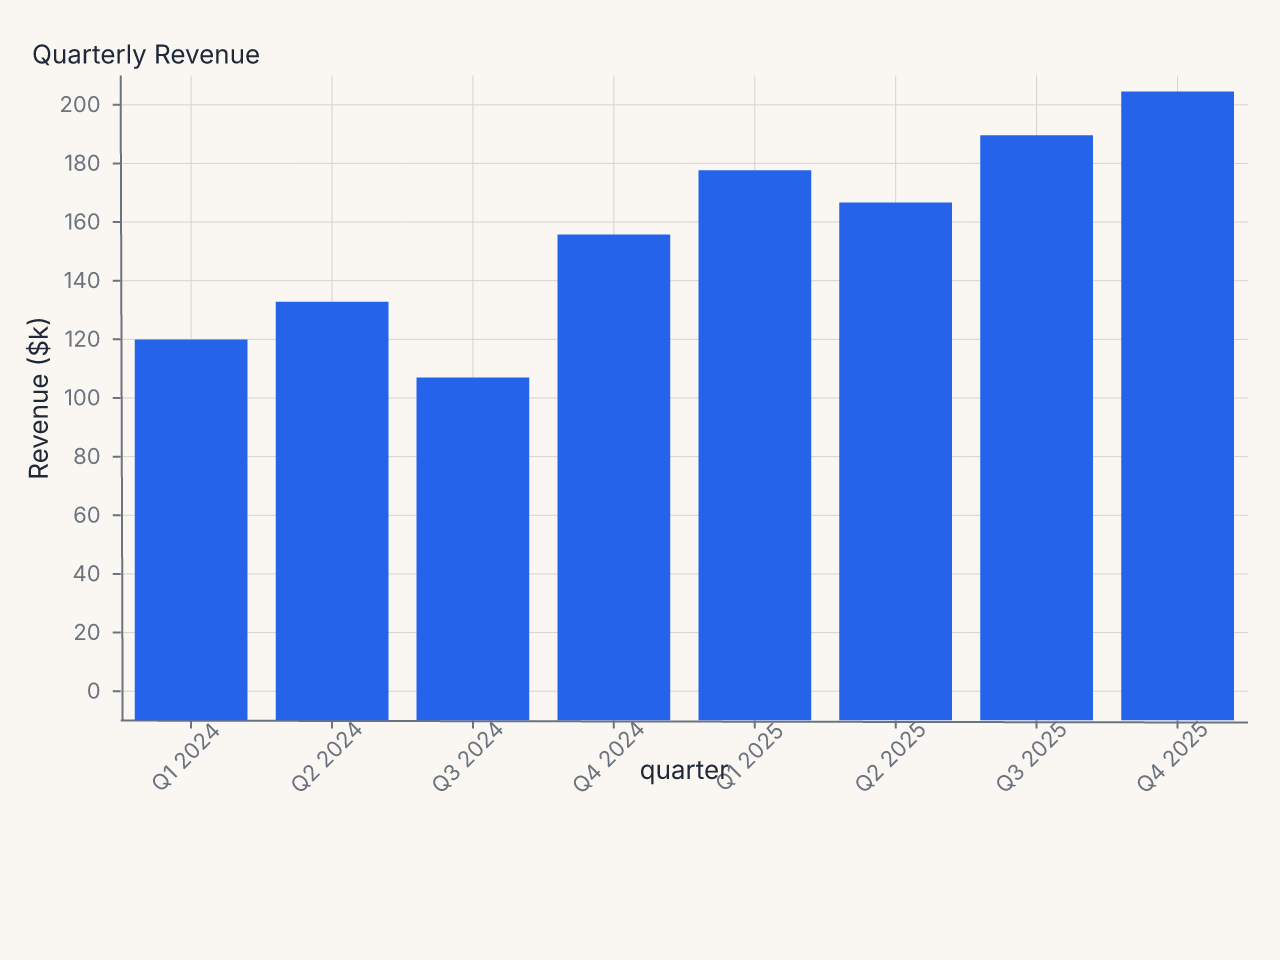
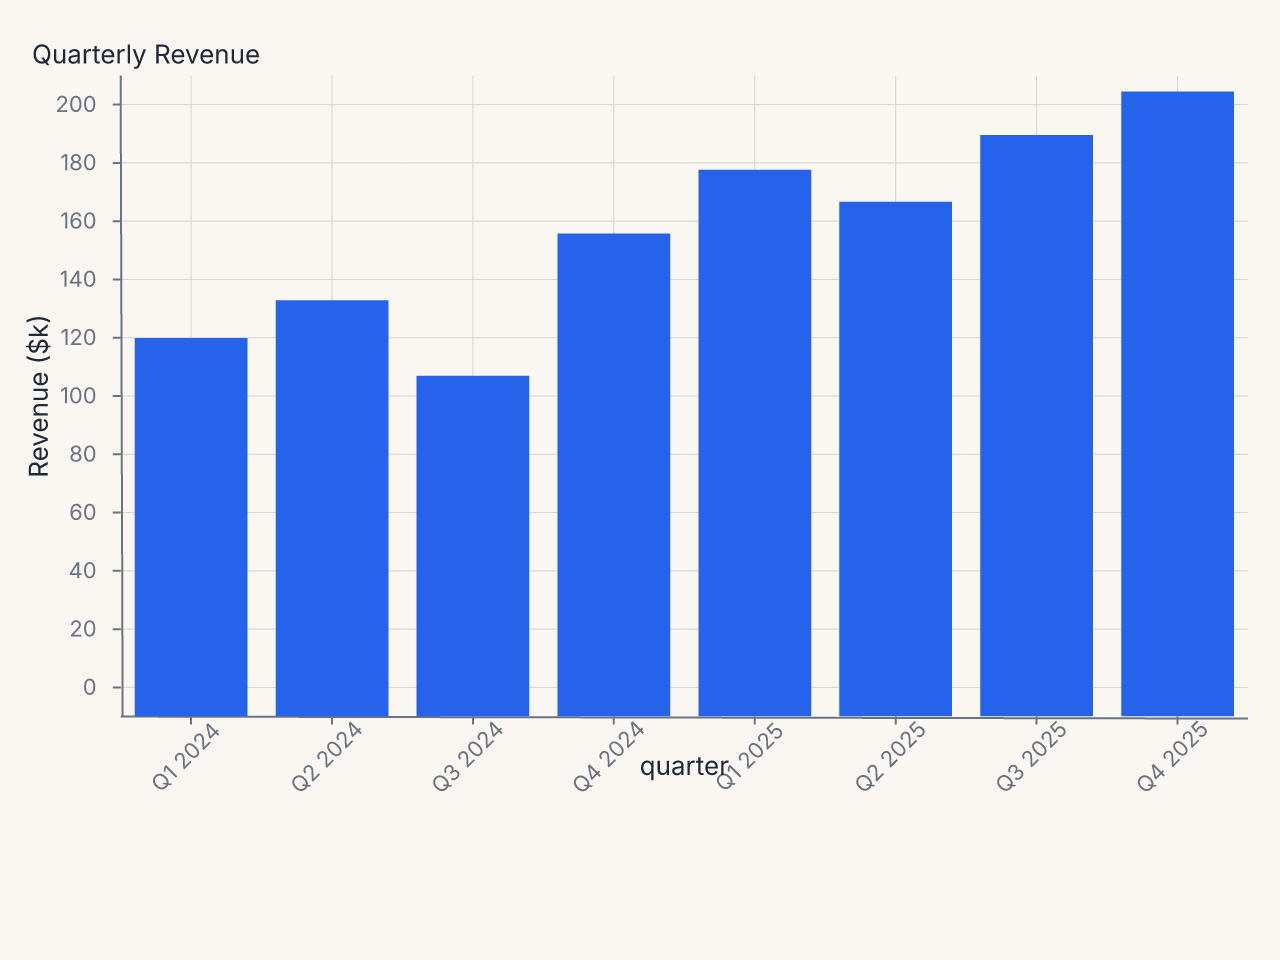
increase label padding

diff --git a/docs/site/recipes/customization/rotated_labels.py b/docs/site/recipes/customization/rotated_labels.py
@@ -21,7 +21,7 @@ chart = (
         x=fm.X("quarter:N", axis=fm.Axis(label_angle=-45)),
         y="revenue:Q",
     )
-    .configure_axis(x=True, y=False, label_padding=6)
+    .configure_axis(x=True, y=False, label_padding=8)
     .configure_padding(bottom=50)
     .labs(title="Quarterly Revenue", x=None, y="Revenue ($k)")
 )
